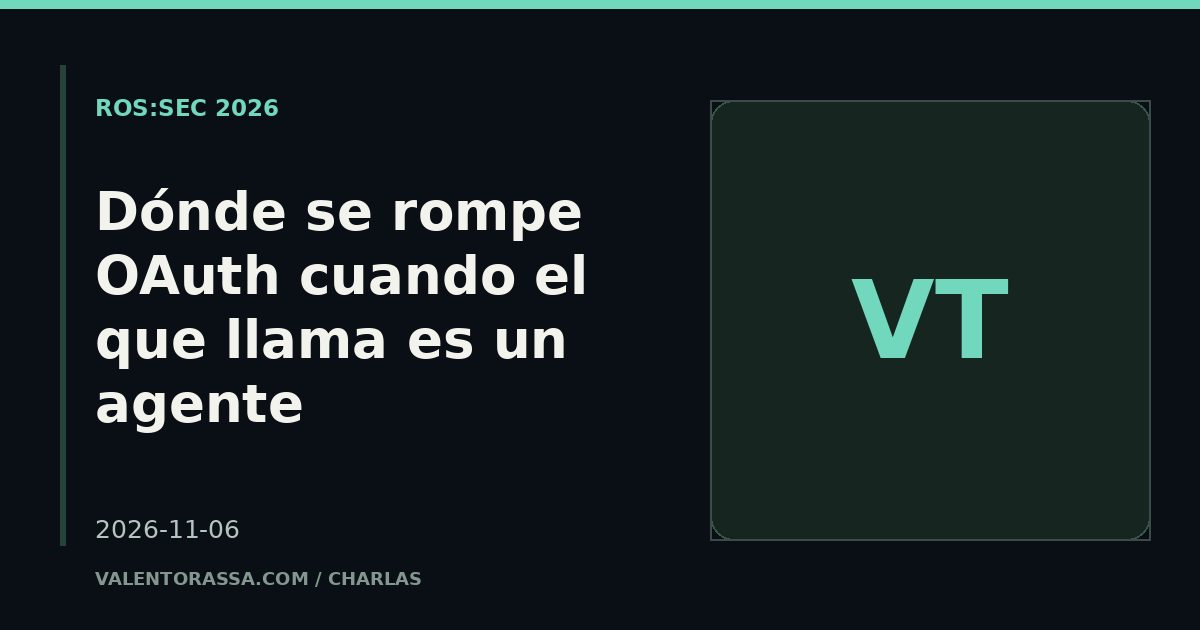
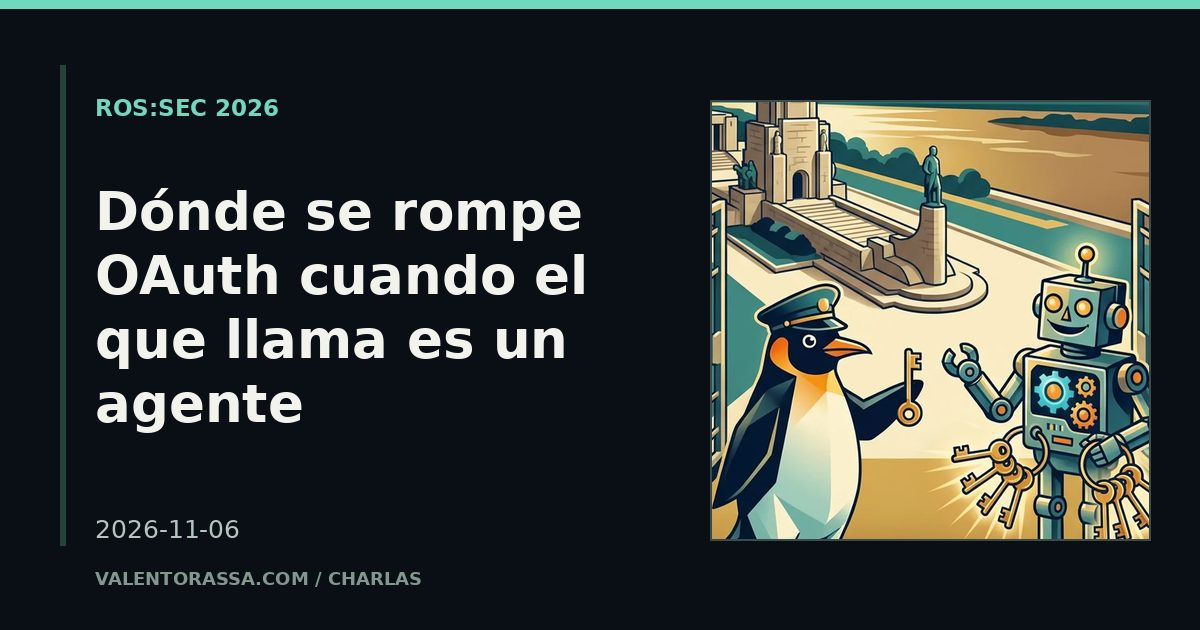
charlas: the Art deco Tux for ROS:SEC 2026
Still, thumb and social card for the OWASP Rosario talk on 06/11 come from the announcement's Tux (Brain assets/tux-2026-10-28-rossec-deco). No hosted deck yet: the slides keep the talk-day release.

Changed region(s): [[0.5858, 0.1508, 0.9558, 0.8746]]

diff --git a/src/talkMedia.ts b/src/talkMedia.ts
@@ -51,6 +51,11 @@ const base = (id: string) => `/charlas/${id}`;
 const firewall = 'https://github.com/ValentinTorassa/VT-Agent-Firewall';
 
 export const talkMedia: Record<string, TalkMedia> = {
+  'rossec-2026': {
+    icon: 'key',
+    still: `${base('rossec-2026')}/still.webp`,
+    thumb: `${base('rossec-2026')}/thumb.webp`,
+  },
   'instituto-san-pablo-2026': {
     deck: `${base('instituto-san-pablo-2026')}/slides`,
     icon: 'layers',
